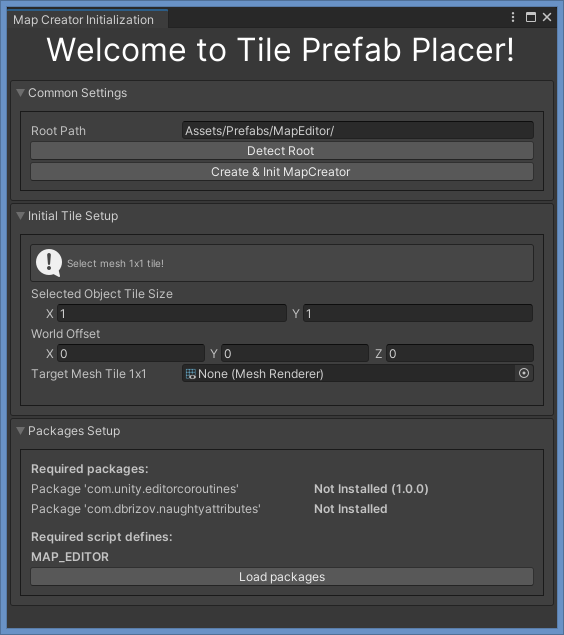
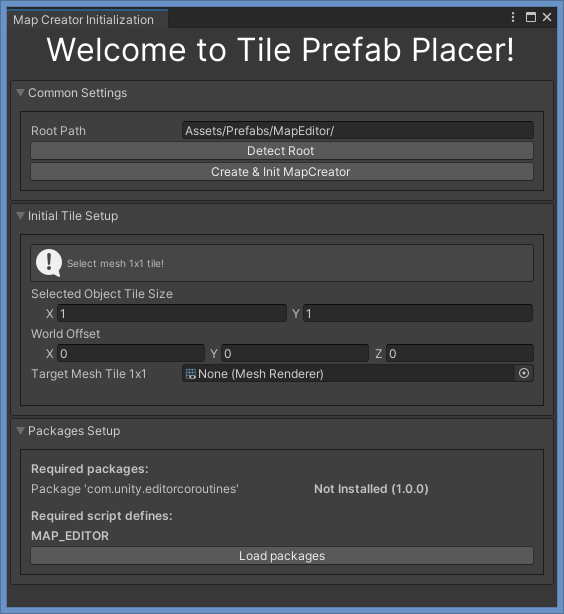
up

diff --git a/docs/source/conf.py b/docs/source/conf.py
@@ -3,11 +3,11 @@
 # -- Project information
 
 project = 'Tile Prefab Placer'
-copyright = '2022, 604Spirit'
+copyright = '2024, 604Spirit'
 author = '604Spirit'
 
-release = '1.0.0'
-version = '1.0.0'
+release = '1.1.0'
+version = '1.1.0'
 
 # -- General configuration
 

diff --git a/docs/source/gettingstarted.rst b/docs/source/gettingstarted.rst
@@ -43,9 +43,6 @@ Installation
 		**Required packages:**
 		
 		* **Editor coroutines** (`com.unity.editorcoroutines`) - unity package which allows developers to run constructs similar to Unity’s monobehaviour based coroutines within the editor using arbitrary objects.
-		
-		* **Naughty Attributes** (`com.dbrizov.naughtyattributes`) - extension for unity inspector made by Denis Rizov, also you can manually download it from unity asset store `Naughty Attributes <https://assetstore.unity.com/packages/tools/utilities/naughtyattributes-129996>`_
-
 
 	.. note::
 		**Script define symbols required for the project:**
